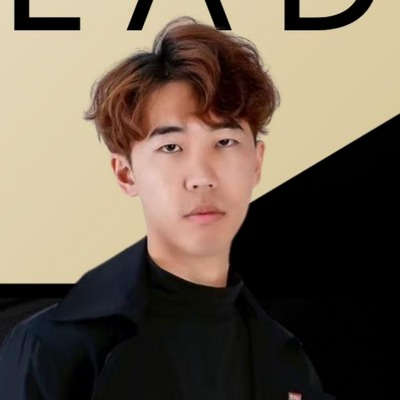
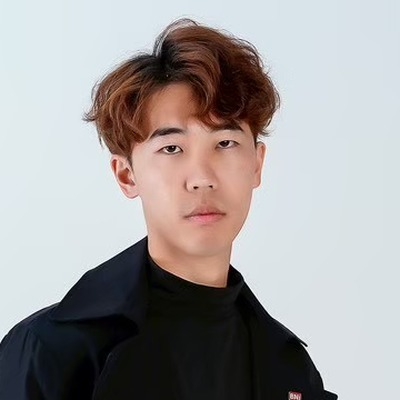
全站領導團隊/歷屆主席/金質獎章頭像換成呱哥提供的正式攝影棚形象照；歷屆主席與金質獎章改用領導團隊卡片格式，取消獨立的圓形晶片與加大特色卡設計

diff --git a/docs/about.html b/docs/about.html
@@ -131,15 +131,55 @@
     <div class="kicker">CHAPTER HISTORY</div>
     <h2>歷屆<span class="accent">主席</span></h2>
     <p class="desc">從創會至今，帶領金貴分會走過每一屆的主席們。</p>
-    <div class="chairs-list">
-      <div class="chair-chip"><span class="term">創會・第2屆</span><span class="name">謝豐安</span><span class="ind">金屬線材加工業</span></div>
-      <div class="chair-chip"><span class="term">第4屆</span><span class="name">黃淑貞</span><span class="ind">房地仲介業</span></div>
-      <div class="chair-chip"><span class="term">第6・7屆</span><span class="name">蘇俊丞</span><span class="ind">調理保健業</span></div>
-      <div class="chair-chip"><span class="term">第8屆</span><span class="name">陳豐興</span><span class="ind">大理石材業</span></div>
-      <div class="chair-chip"><span class="term">第9屆</span><span class="name">黃筱涵</span><span class="ind">清潔服務業</span></div>
-      <div class="chair-chip"><span class="term">第10・11屆</span><span class="name">李朵嬅</span><span class="ind">咖啡業</span></div>
-      <div class="chair-chip"><span class="term">第12屆</span><span class="name">葛聖恩</span><span class="ind">影片製作業</span></div>
-      <div class="chair-chip"><span class="term">第13屆</span><span class="name">陳以昕</span><span class="ind">寢具業</span></div>
+    <div class="leader-grid">
+      <div class="leader-card">
+        <div class="photo"><img src="assets/photos/chair-xiefengan.jpg" alt="創會・第2屆主席 謝豐安"></div>
+        <div class="role">創會・第2屆</div>
+        <h3>謝豐安</h3>
+        <p>金屬線材加工業</p>
+      </div>
+      <div class="leader-card">
+        <div class="photo"><img src="assets/photos/chair-huangshuzhen.jpg" alt="第4屆主席 黃淑貞"></div>
+        <div class="role">第4屆</div>
+        <h3>黃淑貞</h3>
+        <p>房地仲介業</p>
+      </div>
+      <div class="leader-card">
+        <div class="photo"><img src="assets/photos/chair-sujuncheng.jpg" alt="第6・7屆主席 蘇俊丞"></div>
+        <div class="role">第6・7屆</div>
+        <h3>蘇俊丞</h3>
+        <p>調理保健業</p>
+      </div>
+      <div class="leader-card">
+        <div class="photo"><img src="assets/photos/chair-chenfengxing.jpg" alt="第8屆主席 陳豐興"></div>
+        <div class="role">第8屆</div>
+        <h3>陳豐興</h3>
+        <p>大理石材業</p>
+      </div>
+      <div class="leader-card">
+        <div class="photo"><img src="assets/photos/chair-huangxiaohan.jpg" alt="第9屆主席 黃筱涵"></div>
+        <div class="role">第9屆</div>
+        <h3>黃筱涵</h3>
+        <p>清潔服務業</p>
+      </div>
+      <div class="leader-card">
+        <div class="photo"><img src="assets/photos/chair-liduohua.jpg" alt="第10・11屆主席 李朵嬅"></div>
+        <div class="role">第10・11屆</div>
+        <h3>李朵嬅</h3>
+        <p>咖啡業</p>
+      </div>
+      <div class="leader-card">
+        <div class="photo"><img src="assets/photos/chair-gesheng.jpg" alt="第12屆主席 葛聖恩"></div>
+        <div class="role">第12屆</div>
+        <h3>葛聖恩</h3>
+        <p>影片製作業</p>
+      </div>
+      <div class="leader-card">
+        <div class="photo"><img src="assets/photos/chair-chenyixin.jpg" alt="第13屆主席 陳以昕"></div>
+        <div class="role">第13屆</div>
+        <h3>陳以昕</h3>
+        <p>寢具業</p>
+      </div>
     </div>
   </div>
 </section>
@@ -149,14 +189,49 @@
     <div class="kicker">HALL OF FAME</div>
     <h2>金質<span class="accent">獎章</span>會員</h2>
     <p class="desc">為分會增加優質人脈、促成跨分會/跨區域/跨國際商務合作，是全球 BNI 會員商務合作首選、至高無上的榮譽。</p>
-    <div class="gold-grid">
-      <div class="gold-card wide"><img src="assets/photos/gold-xiefengan.jpg" alt="雙金質獎章會員 謝豐安"></div>
-      <div class="gold-card"><img src="assets/photos/gold-sujuncheng.jpg" alt="金質獎章會員 蘇俊丞"></div>
-      <div class="gold-card"><img src="assets/photos/gold-huangxiaohan.jpg" alt="金質獎章會員 黃筱涵"></div>
-      <div class="gold-card"><img src="assets/photos/gold-chenfengxing.jpg" alt="金質獎章會員 陳豐興"></div>
-      <div class="gold-card"><img src="assets/photos/gold-liduohua.jpg" alt="金質獎章會員 李朵嬅"></div>
-      <div class="gold-card"><img src="assets/photos/gold-chenyixin.jpg" alt="金質獎章會員 陳以昕"></div>
-      <div class="gold-card"><img src="assets/photos/gold-huangshuzhen.jpg" alt="金質獎章會員 黃淑貞"></div>
+    <div class="leader-grid">
+      <div class="leader-card">
+        <div class="photo"><img src="assets/photos/chair-xiefengan.jpg" alt="雙金質獎章會員 謝豐安"></div>
+        <div class="role">雙金質獎章</div>
+        <h3>謝豐安</h3>
+        <p>金屬線材加工業</p>
+      </div>
+      <div class="leader-card">
+        <div class="photo"><img src="assets/photos/chair-sujuncheng.jpg" alt="金質獎章會員 蘇俊丞"></div>
+        <div class="role">金質獎章</div>
+        <h3>蘇俊丞</h3>
+        <p>調理保健業</p>
+      </div>
+      <div class="leader-card">
+        <div class="photo"><img src="assets/photos/chair-huangxiaohan.jpg" alt="金質獎章會員 黃筱涵"></div>
+        <div class="role">金質獎章</div>
+        <h3>黃筱涵</h3>
+        <p>清潔服務業</p>
+      </div>
+      <div class="leader-card">
+        <div class="photo"><img src="assets/photos/chair-chenfengxing.jpg" alt="金質獎章會員 陳豐興"></div>
+        <div class="role">金質獎章</div>
+        <h3>陳豐興</h3>
+        <p>大理石材業</p>
+      </div>
+      <div class="leader-card">
+        <div class="photo"><img src="assets/photos/chair-liduohua.jpg" alt="金質獎章會員 李朵嬅"></div>
+        <div class="role">金質獎章</div>
+        <h3>李朵嬅</h3>
+        <p>咖啡業</p>
+      </div>
+      <div class="leader-card">
+        <div class="photo"><img src="assets/photos/chair-chenyixin.jpg" alt="金質獎章會員 陳以昕"></div>
+        <div class="role">金質獎章</div>
+        <h3>陳以昕</h3>
+        <p>寢具業</p>
+      </div>
+      <div class="leader-card">
+        <div class="photo"><img src="assets/photos/chair-huangshuzhen.jpg" alt="金質獎章會員 黃淑貞"></div>
+        <div class="role">金質獎章</div>
+        <h3>黃淑貞</h3>
+        <p>房地仲介業</p>
+      </div>
     </div>
   </div>
 </section>
